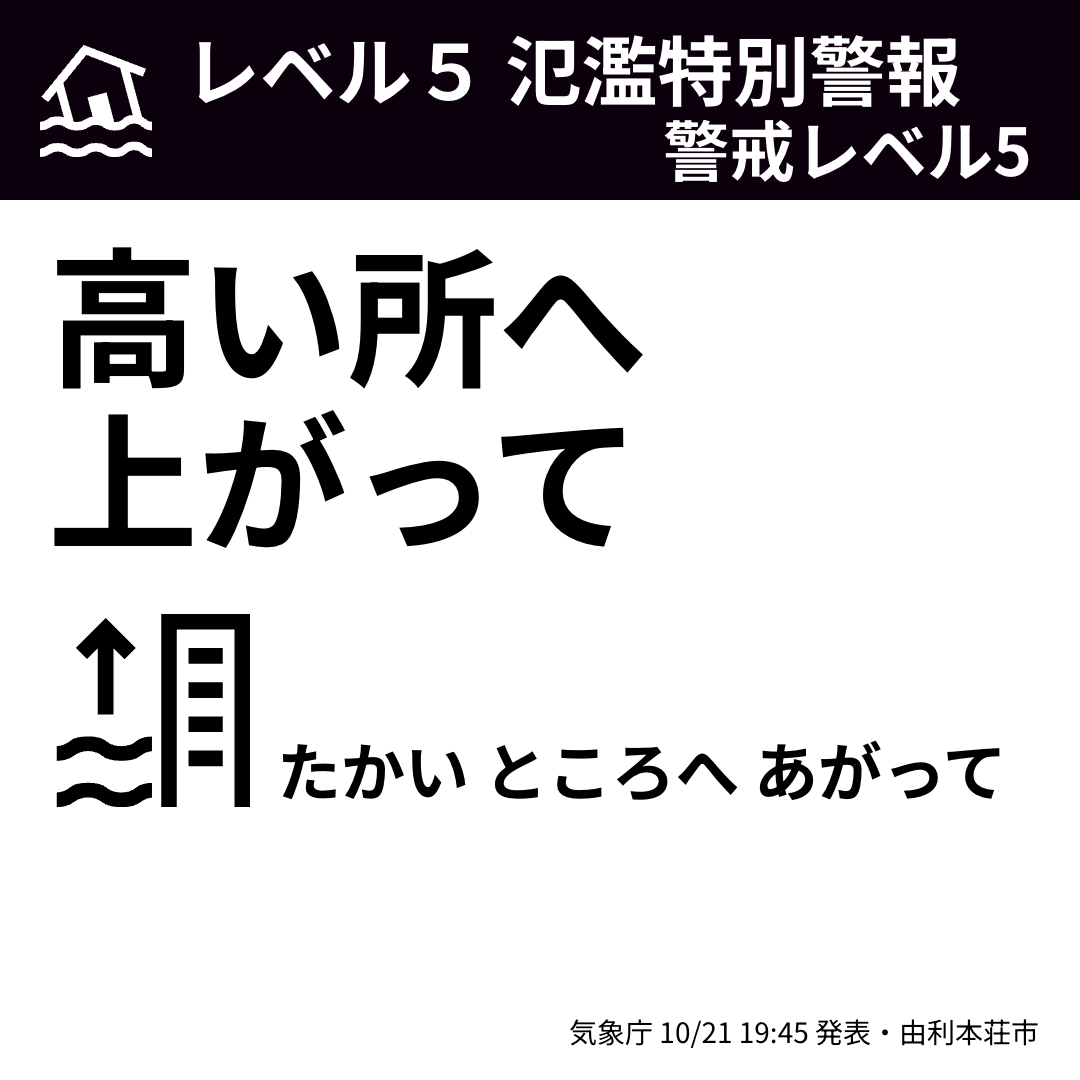
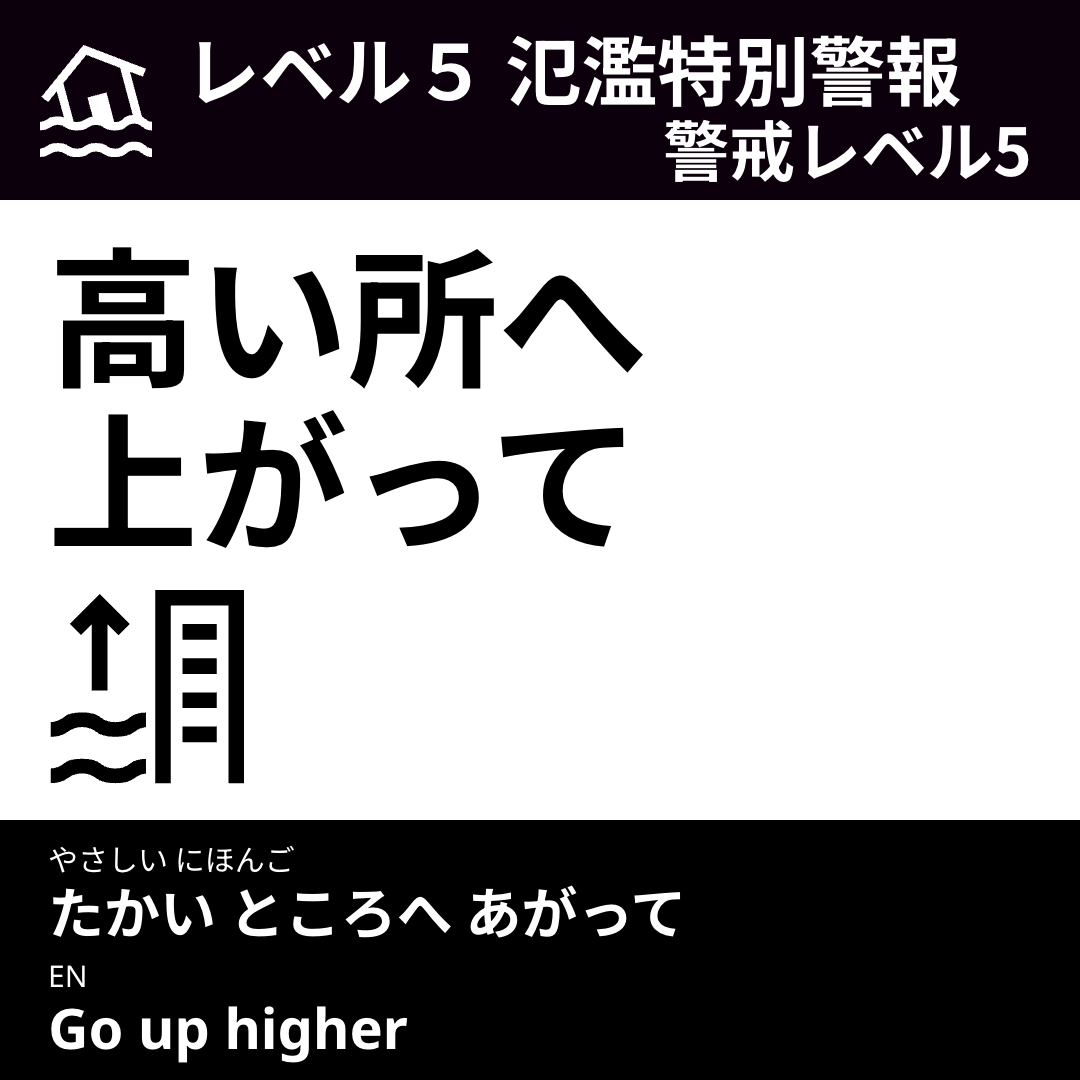
feat(layout): L-5 — 1:1 after 田中's reworked Figma artboard
The 1:1 face now carries the shelter group and the direction beside the
run pictogram, a black language band with white labels above the text,
and no source line (the document footer keeps the sources). The distance
is written "570 m" and anchored at x 833 as on the artboard; a long name
shrinks to 80 % and ends in an ellipsis on one line because the shelter
cell is 124 px tall. docs/screens regenerated.

Changed region(s): [[0.0, 0.5194, 1.0, 1.0]]

diff --git a/app/app/assets/screen.css b/app/app/assets/screen.css
@@ -510,43 +510,97 @@ body {
   line-height: 1.2;
 }
 .evac-screen.shape-square .is-figma .action-text {
-  min-height: calc(2 * 1.1 * var(--type-action) * var(--px));
+  max-width: calc(6.1 * var(--type-action) * var(--px));
   font-size: calc(var(--type-action) * var(--px));
   line-height: 1.1;
 }
-.evac-screen.shape-square .is-figma .role-action {
-  gap: calc(57 * var(--px));
+.evac-screen.shape-square .hero-pictogram.is-figma {
+  place-items: start;
+  padding-left: calc(3 * var(--px));
 }
-.evac-screen.shape-square .is-figma .action-sub {
-  align-items: flex-end;
-  gap: calc(27 * var(--px));
-  padding-left: calc(9 * var(--px));
+.evac-screen.shape-square .is-figma .shelter-name {
+  align-items: flex-start;
+  gap: calc(31 * var(--px));
+  padding-left: calc(11 * var(--px));
 }
-.evac-screen.shape-square .is-figma .action-sub .t-guide {
-  font-size: calc(var(--type-easy) * var(--px));
+.evac-screen.shape-square .is-figma .shelter-name > .pictogram {
+  margin-top: calc(14 * var(--px));
+}
+.evac-screen.shape-square .is-figma .shelter-text {
+  flex: 1 1 auto;
+  display: flex;
+  flex-direction: column;
+  gap: calc(6 * var(--px));
+}
+.evac-screen.shape-square .is-figma .shelter-kind {
+  font-size: calc(var(--type-kind) * var(--px));
   line-height: 1.2;
+  color: var(--label-ink);
+  opacity: 1;
+}
+.evac-screen.shape-square .is-figma .name-row {
+  display: grid;
+  grid-template-columns: calc(435 * var(--px)) auto;
+  align-items: start;
+  gap: 0;
+}
+.evac-screen.shape-square .is-figma .shelter-name-text {
+  margin-top: calc(2 * var(--px));
+  padding-right: calc(24 * var(--px));
+  font-size: calc(var(--type-shelter) * var(--px));
+  line-height: 1;
+  text-wrap: wrap;
+  overflow-wrap: normal;
+  display: -webkit-box;
+  -webkit-box-orient: vertical;
+  -webkit-line-clamp: 1;
+  overflow: hidden;
+}
+.evac-screen.shape-square .is-figma .name-row .distance {
+  margin: 0;
+  font-size: calc(var(--type-distance) * var(--px));
+  line-height: 1;
 }
 .evac-screen.shape-square .is-figma .role-direction {
   align-items: flex-start;
-  gap: calc(36 * var(--px));
-  padding-left: calc(9 * var(--px));
+  gap: calc(28 * var(--px));
 }
 .evac-screen.shape-square .is-figma .role-direction > .pictogram {
-  margin-top: calc(21 * var(--px));
+  margin-top: calc(24 * var(--px));
 }
 .evac-screen.shape-square .is-figma .direction-text {
   flex: none;
-  margin-top: calc(8 * var(--px));
+  margin-top: calc(9 * var(--px));
   font-size: calc(var(--type-direction) * var(--px));
-  line-height: 1;
+  line-height: 1.04;
   text-wrap: nowrap;
 }
-.evac-screen.shape-square .is-figma .source-text {
-  font-size: calc(var(--type-source) * var(--px));
-  line-height: 1.2;
-  text-align: right;
+.evac-screen.shape-square .cell.is-figma.is-dark-band {
+  padding: 0 0 0 calc(48 * var(--px));
 }
-
+.evac-screen.shape-square .is-figma .role-languages {
+  align-items: flex-start;
+}
+.evac-screen.shape-square .is-figma .lang-variant {
+  padding-top: calc(20 * var(--px));
+  gap: calc(15 * var(--px));
+}
+.evac-screen.shape-square .is-figma .lang-line {
+  flex-direction: column;
+  align-items: flex-start;
+  gap: 0;
+}
+.evac-screen.shape-square .is-figma .lang-label {
+  min-width: 0;
+  font-size: calc(var(--type-label) * var(--px));
+  line-height: 1.2;
+  color: var(--dark-band-ink);
+  opacity: 1;
+}
+.evac-screen.shape-square .is-figma .lang-text {
+  font-size: calc(var(--type-languages) * var(--px));
+  line-height: 1.2;
+}
 
 .evac-screen.shape-pillar .is-figma .role-headline.is-stacked {
   display: block;

diff --git a/app/layout/templates.ts b/app/layout/templates.ts
@@ -138,39 +138,45 @@ const RIBBON_CLEAR: ShapeLayout = {
   pictogramPx: { headline: 310, action: 344 },
 }
 
-// 1:1 is 田中's Figma artboard (2026-11-05, node 3230:4, 1080 × 1080): the band 200, the two-line action from x 48
-// with the run pictogram's ink and the easy-Japanese line (bottom-aligned with the ink) under it, the direction under
-// that, the source on the foot. The artboard has no shelter block and no language band, so those cells get no slot
-// and the easy Japanese reads in the action. The fr row above the source takes a taller screen.
-const FIGMA_SQUARE_TYPE = { headline: 76, level: 66, action: 150, direction: 120, easy: 64, source: 28 }
+// 1:1 is 田中's Figma artboard (2026-11-05 L-5, node 3230:4 with the 3266:25 parts, 1080 × 1080): the band 200, the
+// two-line action from x 48, the run pictogram's ink 144 × 193 at (51, 590) as the hero beside the shelter group
+// (site ink at (275, 602), texts from x 398, the distance "570 m" anchored at x 833) and the direction under it
+// from x 766, and a black language band from y 820 with white labels above the text. No source line on the face
+// (the document footer carries the sources). The fr row above the band takes a taller screen.
+const FIGMA_SQUARE_TYPE = { headline: 76, level: 66, action: 150, direction: 70, shelter: 64, shelterNarrow: 51, kind: 30, distance: 72, label: 30, languages: 56, languagesNarrow: 47 }
 const SQUARE: ShapeLayout = {
   id: 'figma-square',
-  columns: [48, '1fr', 7, 41],
-  rows: [200, 27, 580, 33, 130, '1fr', 34, 31],
+  columns: [48, 202, 14, 502, 314],
+  rows: [200, 27, 335, 26, 2, 122, 71, 17, '1fr', 260],
   areas: [
-    'headline headline headline headline',
-    '. . . .',
-    '. action . .',
-    '. . . .',
-    '. direction . .',
-    '. . . .',
-    '. source source .',
-    '. . . .',
+    'headline headline headline headline headline',
+    '. . . . .',
+    '. action action action action',
+    '. . . . .',
+    '. . . shelter shelter',
+    '. hero . shelter shelter',
+    '. hero . . direction',
+    '. . . . direction',
+    '. . . . .',
+    'languages languages languages languages languages',
   ],
-  required: ['headline', 'action', 'direction', 'source'],
-  pictogramPx: { headline: 112, action: 193, direction: 109 },
+  required: ['headline', 'action', 'direction', 'shelter', 'languages'],
+  pictogramPx: { headline: 112, action: 0, direction: 56, shelter: 92 },
+  hero: { role: 'action', px: 193 },
+  darkBand: ['languages'],
   figma: true,
   fixedTracks: true,
   headlineLines: 1,
+  distanceUnitSpace: true,
   type: FIGMA_SQUARE_TYPE,
 }
 
 const SQUARE_CLEAR: ShapeLayout = {
   ...SQUARE,
   id: 'figma-square-clear',
-  areas: SQUARE.areas.map((row) => row.replace('direction', '.')),
-  required: ['headline', 'action', 'source'],
-  pictogramPx: { headline: 112, action: 193 },
+  areas: SQUARE.areas.map((row) => row.replace('shelter shelter', '. .').replace('direction', '.')),
+  required: ['headline', 'action', 'languages'],
+  pictogramPx: { headline: 112, action: 0 },
 }
 
 function requireShelterInsteadOfDirection(layout: ShapeLayout): ShapeLayout {

diff --git a/app/app/components/ScreenCell.vue b/app/app/components/ScreenCell.vue
@@ -15,6 +15,7 @@ const props = defineProps<{
   pictogramPx: number
   figmaRules?: boolean
   distanceBelow?: boolean
+  distanceUnitSpace?: boolean
   languageIndex: number
   languageStyle: Record<string, string | number>
 }>()
@@ -30,8 +31,8 @@ const languageGroups = computed<LangKey[][]>(() => {
   return Array.from({ length: Math.ceil(langs.length / LANGUAGES_AT_ONCE) }, (_, i) => langs.slice(i * LANGUAGES_AT_ONCE, (i + 1) * LANGUAGES_AT_ONCE))
 })
 const currentGroup = computed(() => (languageGroups.value.length ? props.languageIndex % languageGroups.value.length : -1))
-// The Figma artboard writes the distance as one word (570m); the earlier layouts keep the space.
-const distanceText = computed(() => (props.cell.distance_m === undefined ? '' : `${props.cell.distance_m}${props.figmaRules ? '' : ' '}m`))
+// The 9:16 artboard writes the distance as one word (570m); the 1:1 artboard and the earlier layouts keep the space.
+const distanceText = computed(() => (props.cell.distance_m === undefined ? '' : `${props.cell.distance_m}${props.figmaRules && !props.distanceUnitSpace ? '' : ' '}m`))
 const headlineMaxLines = computed(() => (props.headlineLimited ? (props.headlineMaxLines ?? HEADLINE_STACKED_MAX_LINES) : undefined))
 </script>
 

diff --git a/app/test/shelter-name.test.ts b/app/test/shelter-name.test.ts
@@ -74,7 +74,7 @@ describe('a twenty-character shelter name keeps the direction on every shape', {
         assert.ok(screen.arrows >= 1, `${shape} draws the direction arrow`)
         assert.ok(!screen.dropped.includes('direction'), `${shape} dropped: ${screen.dropped}`)
         assert.deepEqual([screen.overflow, screen.missing], ['', ''], `${shape} overflow/missing`)
-        if (shape !== '1x1') assert.equal(screen.name, LONG_NAME, `${shape} keeps the whole name in the document`)
+        assert.equal(screen.name, LONG_NAME, `${shape} keeps the whole name in the document`)
       }
     })
   }

diff --git a/app/app/components/EvacScreen.vue b/app/app/components/EvacScreen.vue
@@ -301,6 +301,7 @@ watch(() => [props.screen, props.shape, props.variant], fit)
         :pictogram-px="layout.pictogramPx[cell.role] ?? 0"
         :figma-rules="layout.figma === true"
         :distance-below="distanceBelow"
+        :distance-unit-space="layout.distanceUnitSpace"
         :language-index="language.index"
         :language-style="languageStyle"
       />

diff --git a/app/layout/types.ts b/app/layout/types.ts
@@ -77,6 +77,8 @@ export interface ShapeLayout {
   fixedTracks?: boolean
   headlineLines?: number
   distanceBelow?: boolean
+  // The artboard writes the distance as "570 m" (a space before the unit) instead of "570m".
+  distanceUnitSpace?: boolean
 }
 
 export type TemplateDef = Record<PanelShape, ShapeLayout[]>

diff --git a/app/layout/GRID.md b/app/layout/GRID.md
@@ -175,6 +175,6 @@ Each shape reproduces its artboard in file `H213MoFcJtIZ96s6qdmBZ8` the way 9:16
 
 - **16:9** (node 3223:4, 1920 × 1080, `figma-split`): columns 52 · 720 · 1fr · 897 · 52; rows 172 · 24 · 27 · 255 · 90 · 167 · 49 · 1fr · 170 · 20 · 29 · 31. Band: hazard ink 98 at (48, 38), headline 64 at (195, 46), level 64 right-aligned at 1868. Action 120 / 1.25 in the 720 column, the run ink 225 under it (gap 52). Direction (arrow ink 129, text 122) and shelter (site ink 157, kind 32, name 79, distance 92) right-aligned in the 897 column; the shelter owns the rows down to the languages so a two-line name fits. Languages 54 with 24 labels in a 256 column, pairs 31 apart; source 24 right-aligned.
 - **32:9** (node 3223:80, 3840 × 1080, `figma-ribbon`): columns 780 · 107 · 1369 · 1fr · 769 · 92; rows 40 · 83 · 185 · 53 · 24 · 30 · 275 · 39 · 1fr · 294. The level colour fills the 780 panel: hazard ink 310 at (79, 91), two-line headline 96 / 1.25 at (60, 480) (`headlineLines: 2`), level 96 at (60, 800). Source 30 on top of the white field, action 150 one line, run ink 344, direction (arrow ink 166, text 170) from x 2979, shelter (site ink 253, kind 32, name 140, distance 150) from x 2256, both ending at x 3748. Languages 90 side by side (1456 columns) on the black band with 30 labels in #bebebe above the text.
-- **1:1** (node 3230:4, 1080 × 1080, `figma-square`): columns 48 · 1fr · 7 · 41; rows 200 · 27 · 580 · 33 · 130 · 1fr · 34 · 31. Band: hazard ink 112 at (40, 45), headline 76 at (184, 22), level 66 right-aligned at 1032. Action 150 / 1.1 two lines, the run ink 193 with the easy-Japanese line 64 bottom-aligned to it (`easyInAction`); direction (arrow ink 109, text 120) under them; source 28 right-aligned at 1039. The artboard has no shelter block and no language band, so those cells get no slot.
+- **1:1** (node 3230:4 with the 3266:25 parts, 1080 × 1080, `figma-square`, L-5 2026-11-05): columns 48 · 202 · 14 · 502 · 314; rows 200 · 27 · 335 · 26 · 2 · 122 · 71 · 17 · 1fr · 260. Band: hazard ink 112 at (40, 45), headline 76 at (184, 22), level 66 right-aligned at 1032. Action 150 / 1.1 two lines from x 48; the run pictogram's ink 144 × 193 at (51, 590) is the hero. Beside it the shelter group (site ink 92 at (275, 602), kind 30, name 64, the distance 72 written "570 m" and anchored at x 833) and under that the direction (arrow ink 56 at (766, 736), text 70). A black language band from 820 with the labels 30 in white above the text 56. No source line (the document footer carries the sources). The shelter cell is 124 tall, so a long name shrinks to 80 % and then ends in an ellipsis on one line.
 - **Pillar** (node 3230:68, four faces of 1654 × 5046 in strip px, `figma-face`, `PILLAR.faceScale` 1): columns 80 · 273 · 842 · 377 · 82; rows 320 · 307 · 1132 · 417 · 442 · 216 · 406 · 256 · 275 · 121 · 383 · 1fr · 546. Band 320: hazard ink 186 at (95, 59), headline 90 at (336, 37), level 90 right-aligned at 1582. The run pictogram's ink 842 × 1132 at (353, 627) is the hero; action 190 / 1.15 two lines in 1160; languages 88 with 40 labels centred on their lines (the easy-Japanese line breaks after あぶない as on the artboard); the 32:9 shelter group; direction arrow ink 261 at (130, 4014) with the text 270; the foot band from 4500 carries the source 70 in white at (80, 4740). The artboard's faces 2–4 sit 3 px left of a 1654 pitch; the app uses the pitch.
 - Long facility names on every shape but 9:16 (whose artboard rule is §8): the name is set at 80 % first, then takes two lines, then ends in an ellipsis (`-webkit-line-clamp: 2`); the distance and the direction never move, and the direction is never an overflow victim (`fit.ts`). `app/test/shelter-name.test.ts` renders a twenty-character name on all five shapes.
